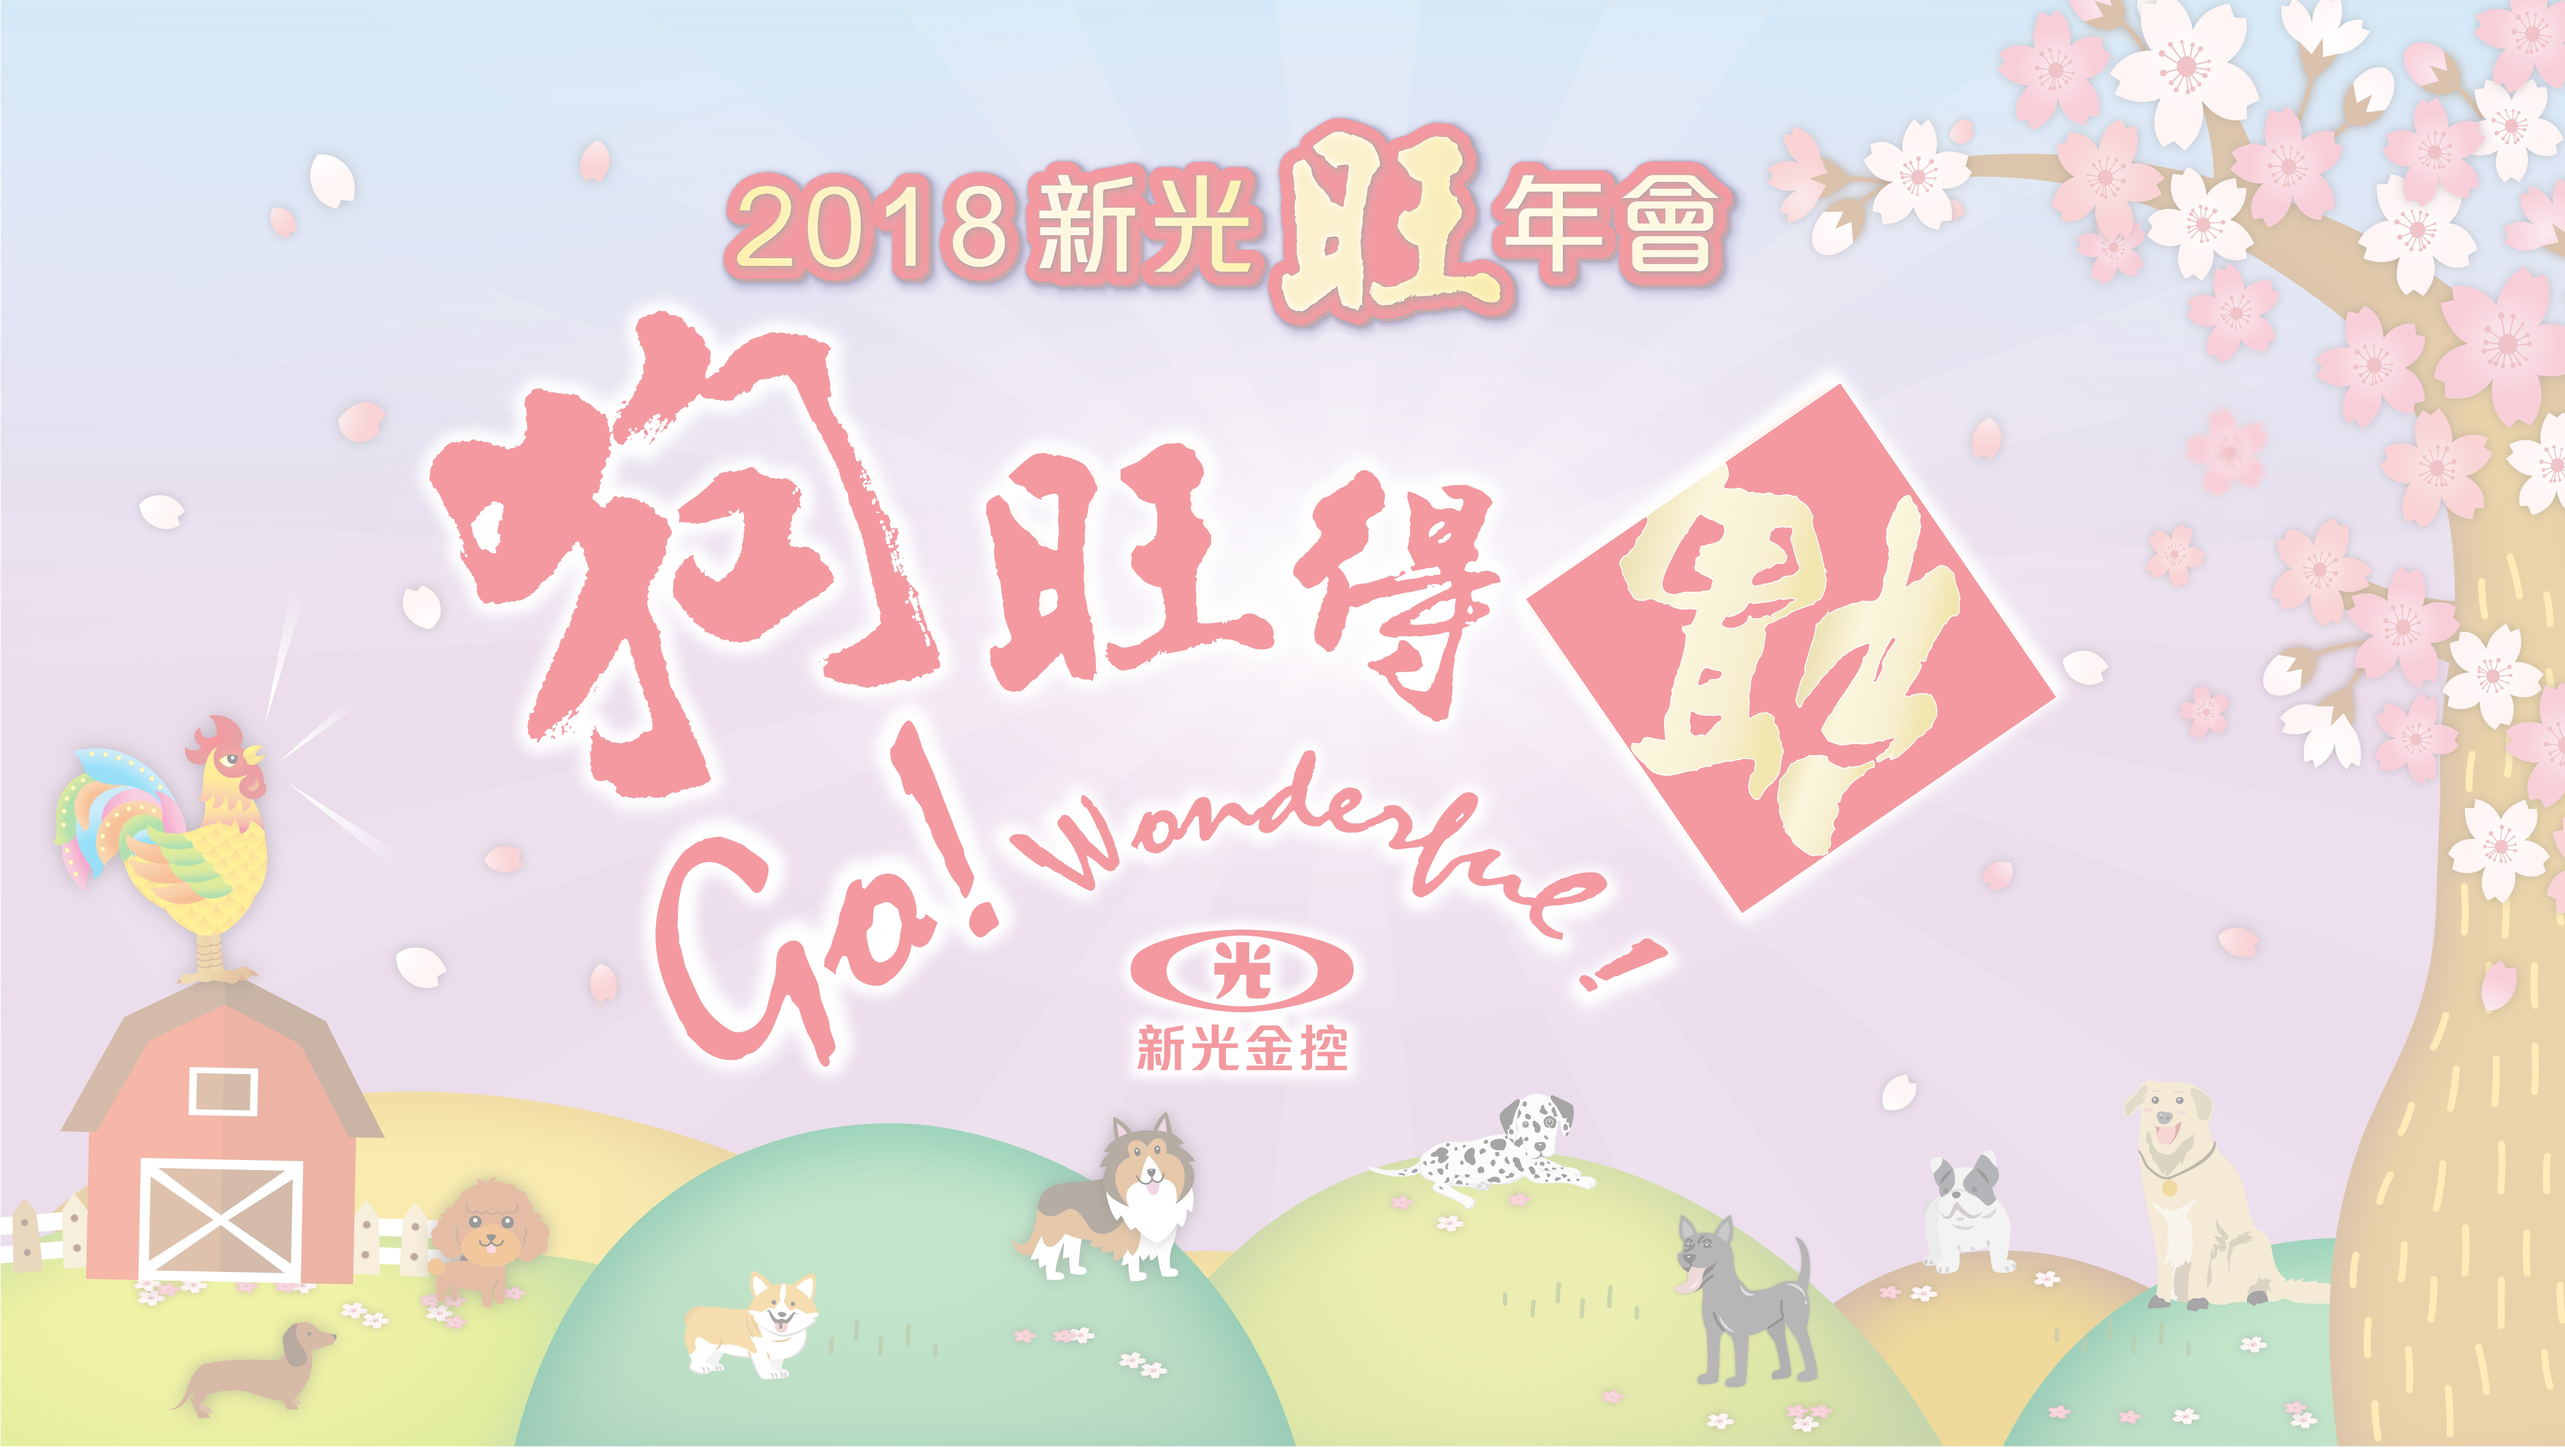
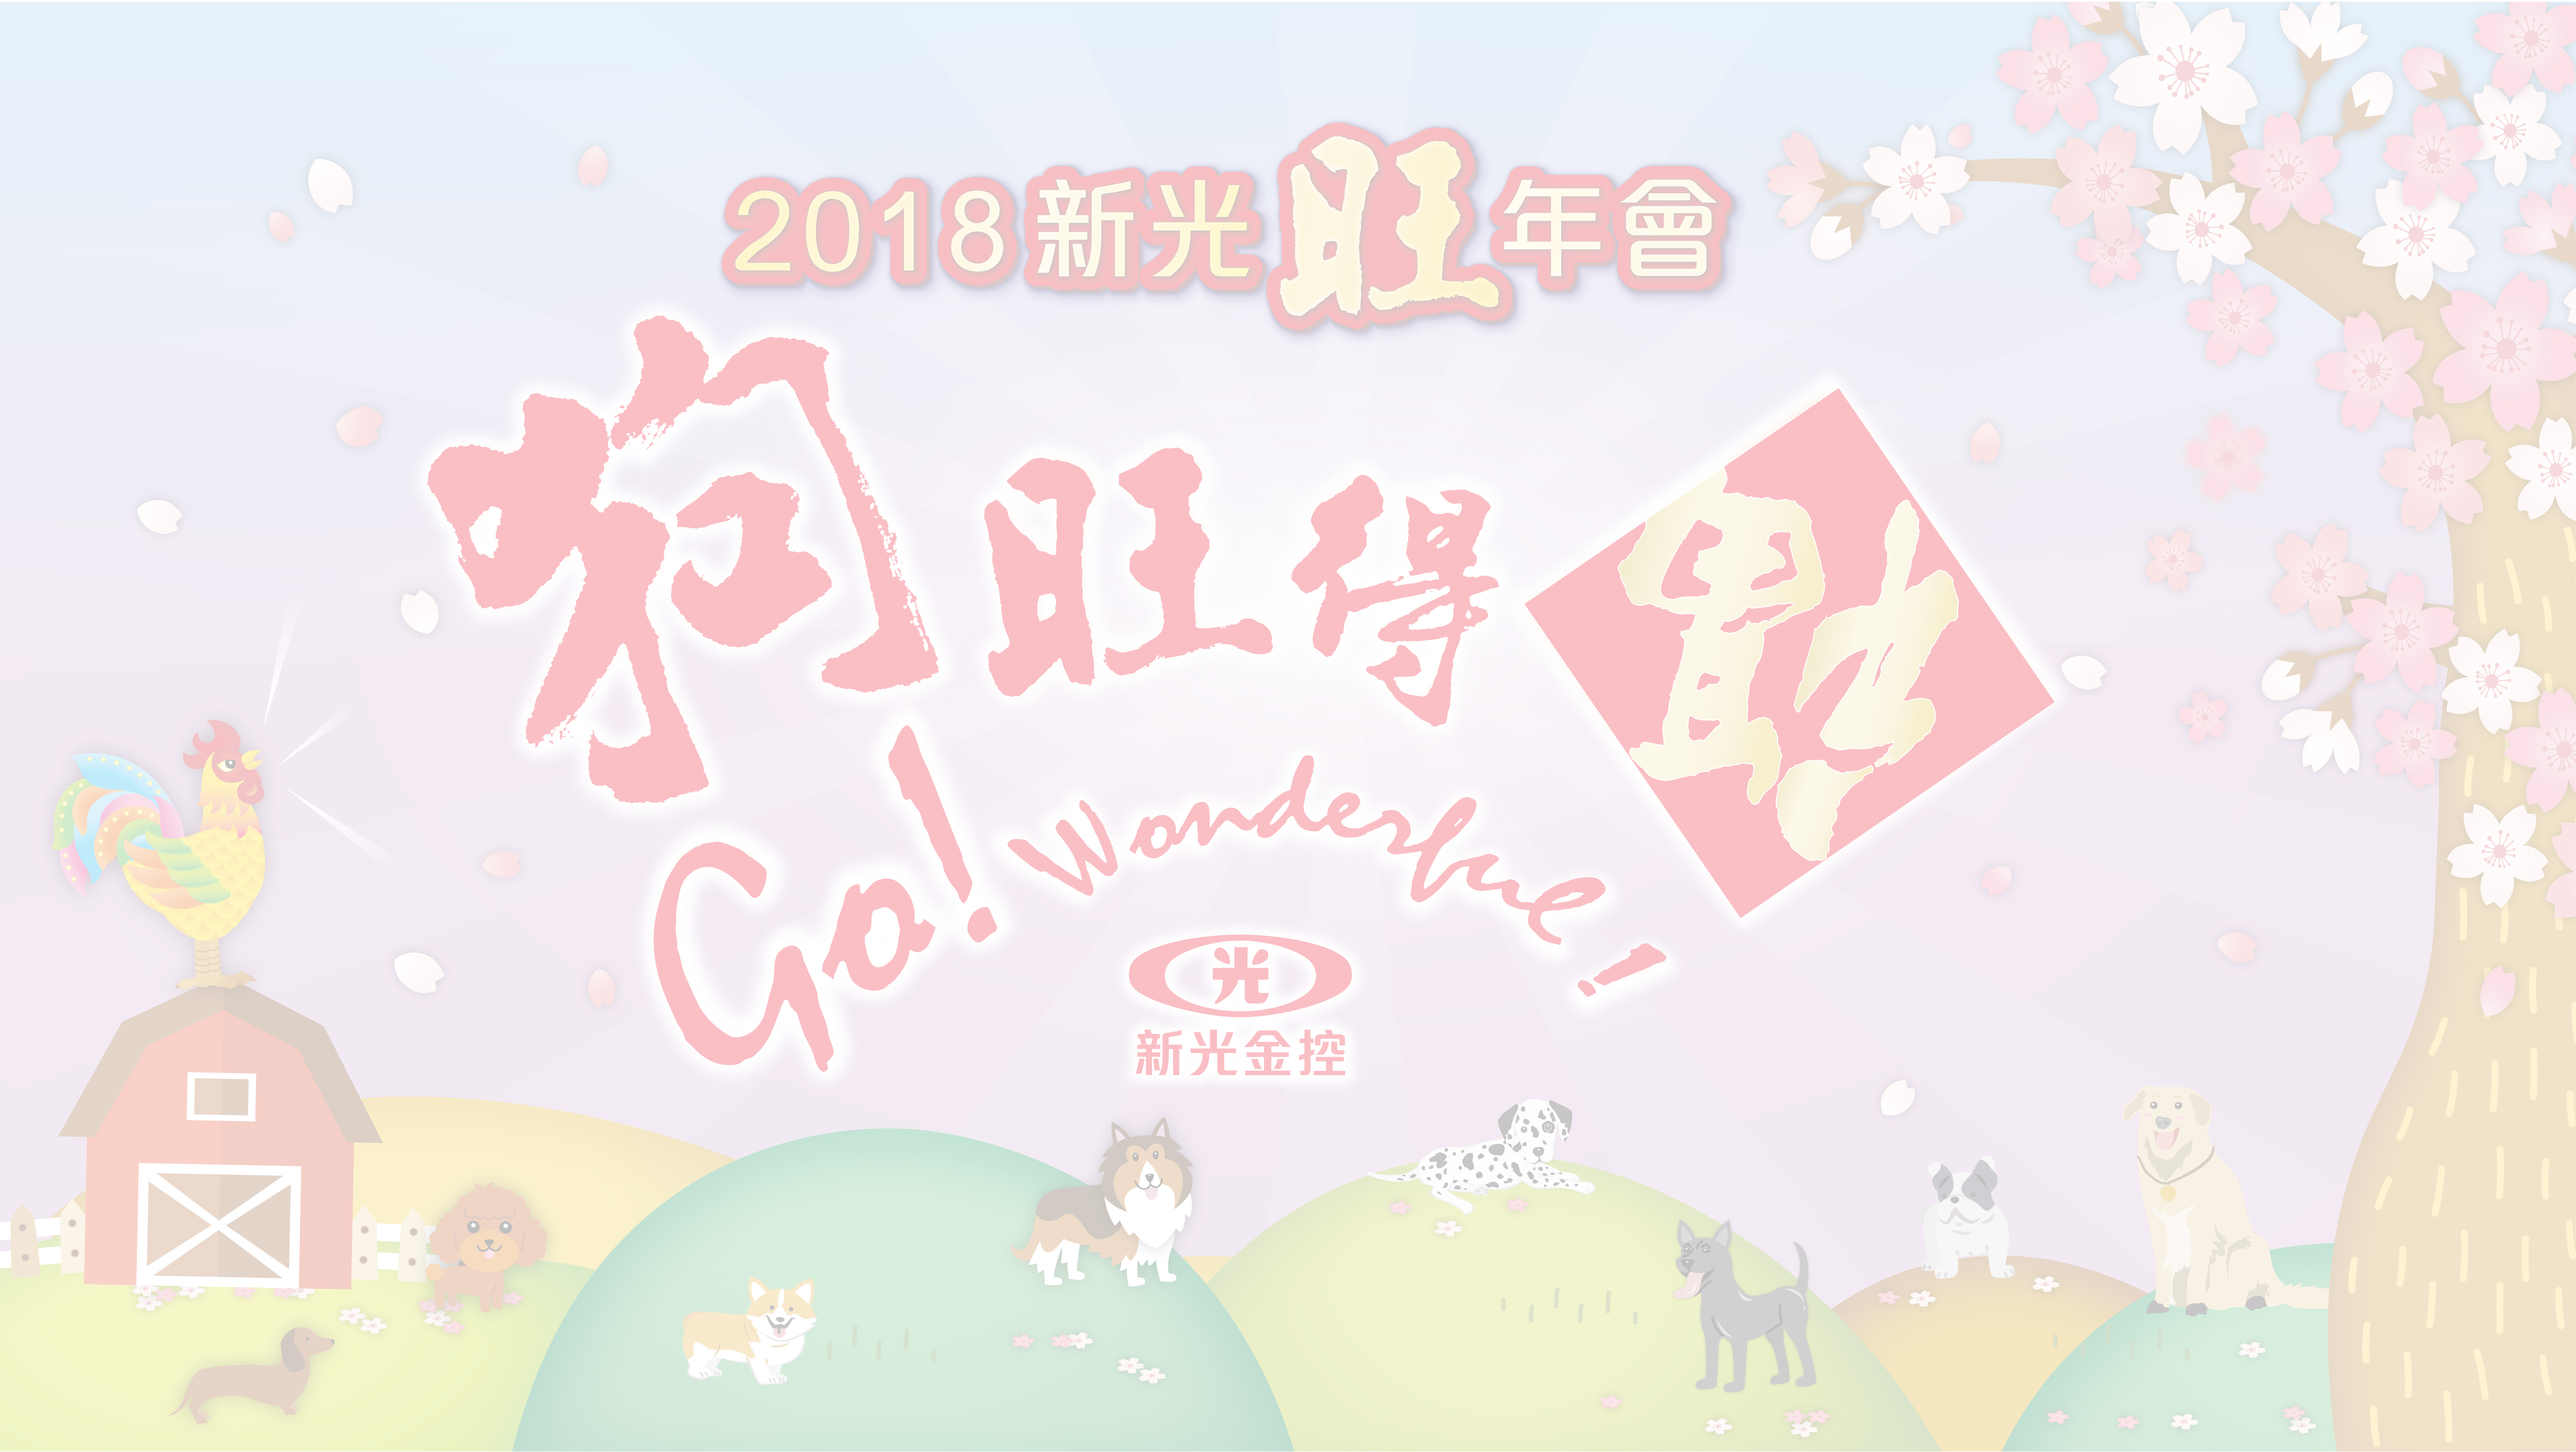
1. 修改為1920 * 1080 2. 底圖為淺灰

diff --git a/RealTimeChart/PieChart.aspx.designer.cs b/RealTimeChart/PieChart.aspx.designer.cs
@@ -1,10 +1,10 @@
 //------------------------------------------------------------------------------
-// <auto-generated>
-//     This code was generated by a tool.
+// <自動產生的>
+//     這段程式碼是由工具產生的。
 //
-//     Changes to this file may cause incorrect behavior and will be lost if
-//     the code is regenerated. 
-// </auto-generated>
+//     變更這個檔案可能會導致不正確的行為，而且如果已重新產生
+//     程式碼，則會遺失變更。
+// </自動產生的>
 //------------------------------------------------------------------------------
 
 namespace RealTimeChart {
